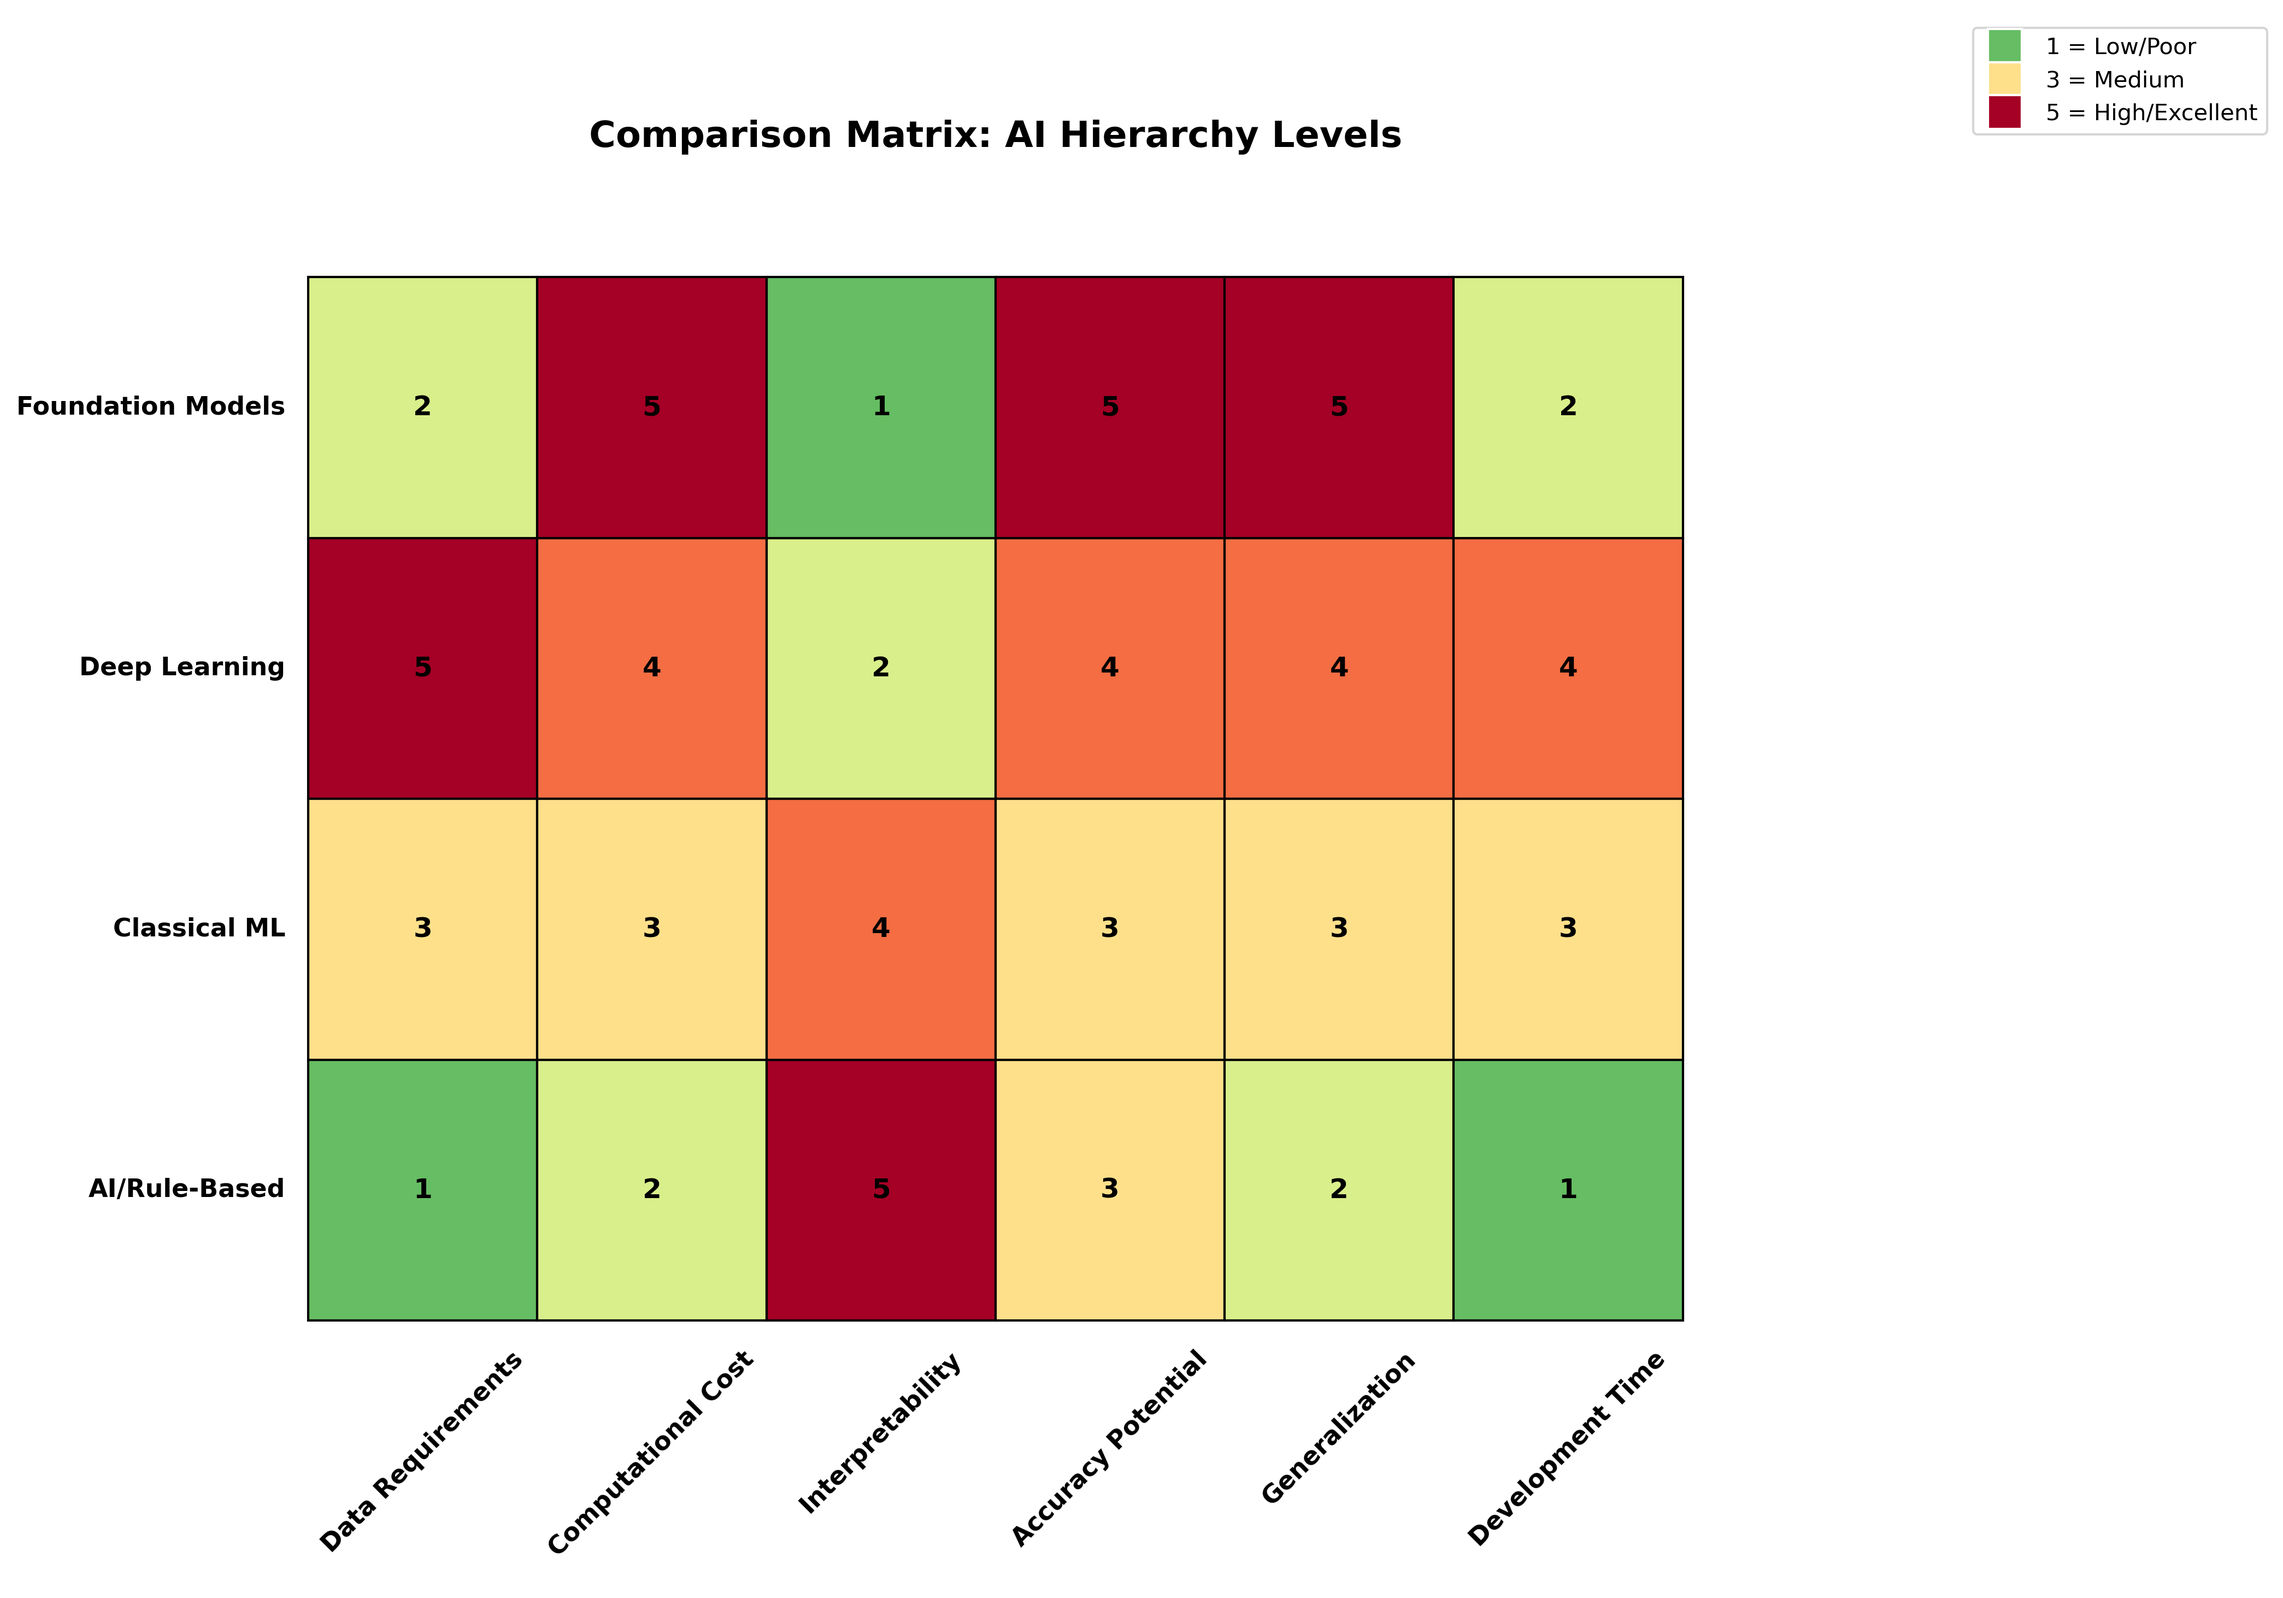
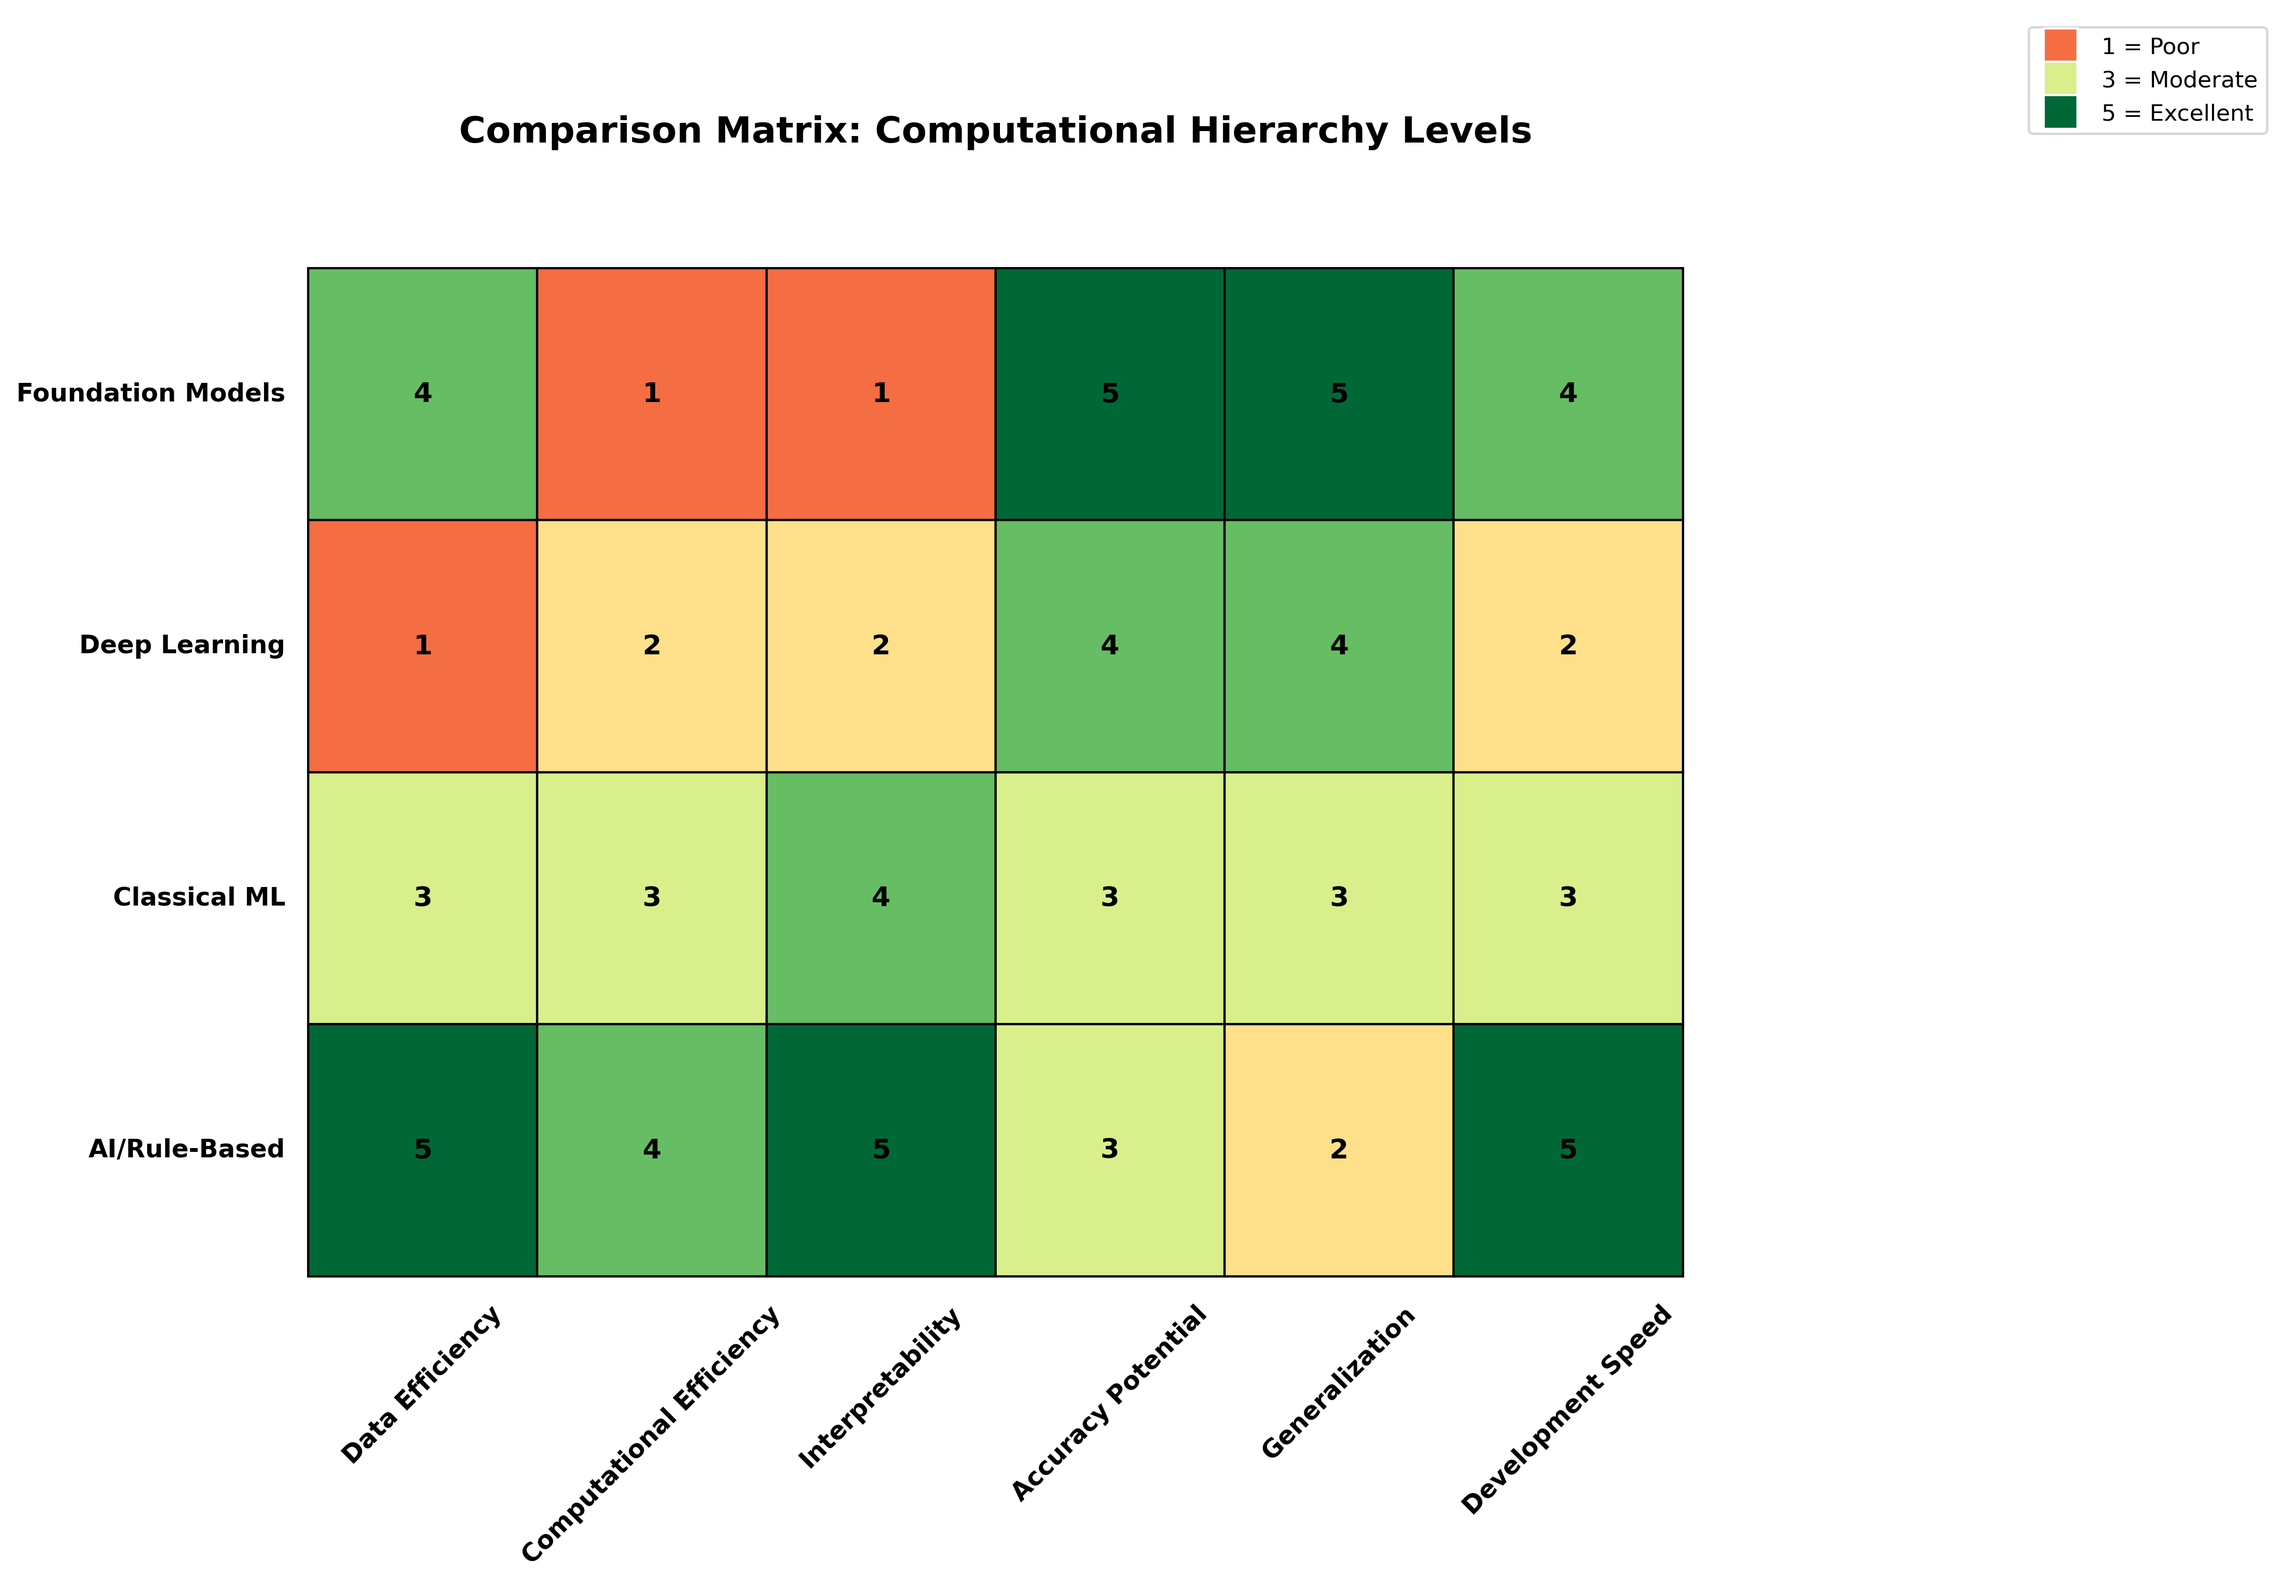
docs(images): updated color scheme and labels

diff --git a/book/extras/scripts/visualize_ai_hierarchy.py b/book/extras/scripts/visualize_ai_hierarchy.py
@@ -178,24 +178,24 @@ def create_comparison_matrix():
     # Categories and criteria
     categories = ['AI/Rule-Based', 'Classical ML', 'Deep Learning', 'Foundation Models']
     criteria = [
-        'Data Requirements',
-        'Computational Cost',
+        'Data Efficiency',  # Changed from Data Requirements (inverted)
+        'Computational Efficiency',  # Changed from Computational Cost (inverted)
         'Interpretability',
         'Accuracy Potential',
         'Generalization',
-        'Development Time'
+        'Development Speed'  # Changed from Development Time (inverted)
     ]
     
-    # Scores (1-5 scale)
+    # Scores (1-5 scale) - now higher is always better
     scores = np.array([
-        [1, 2, 5, 3, 2, 1],  # AI/Rule-Based
+        [5, 4, 5, 3, 2, 5],  # AI/Rule-Based
         [3, 3, 4, 3, 3, 3],  # Classical ML
-        [5, 4, 2, 4, 4, 4],  # Deep Learning
-        [2, 5, 1, 5, 5, 2],  # Foundation Models (less data needed for fine-tuning)
+        [1, 2, 2, 4, 4, 2],  # Deep Learning
+        [4, 1, 1, 5, 5, 4],  # Foundation Models (less data needed for fine-tuning)
     ])
     
-    # Color map
-    colors = plt.cm.RdYlGn_r
+    # Color map - now green is good, red is bad
+    colors = plt.cm.RdYlGn
     
     # Create matrix
     for i, category in enumerate(categories):
@@ -219,17 +219,17 @@ def create_comparison_matrix():
                 ha='center', va='top', fontsize=11, weight='bold', rotation=45)
     
     # Add title
-    ax.text(3, 4.5, 'Comparison Matrix: AI Hierarchy Levels',
+    ax.text(3, 4.5, 'Comparison Matrix: Computational Hierarchy Levels',
             ha='center', fontsize=16, weight='bold')
     
     # Add legend
     legend_elements = [
         mlines.Line2D([0], [0], marker='s', color='w', 
-                     markerfacecolor=colors(1/5), markersize=15, label='1 = Low/Poor'),
+                     markerfacecolor=colors(1/5), markersize=15, label='1 = Poor'),
         mlines.Line2D([0], [0], marker='s', color='w',
-                     markerfacecolor=colors(3/5), markersize=15, label='3 = Medium'),
+                     markerfacecolor=colors(3/5), markersize=15, label='3 = Moderate'),
         mlines.Line2D([0], [0], marker='s', color='w',
-                     markerfacecolor=colors(5/5), markersize=15, label='5 = High/Excellent')
+                     markerfacecolor=colors(5/5), markersize=15, label='5 = Excellent')
     ]
     ax.legend(handles=legend_elements, loc='upper right', bbox_to_anchor=(1.2, 1))
     
